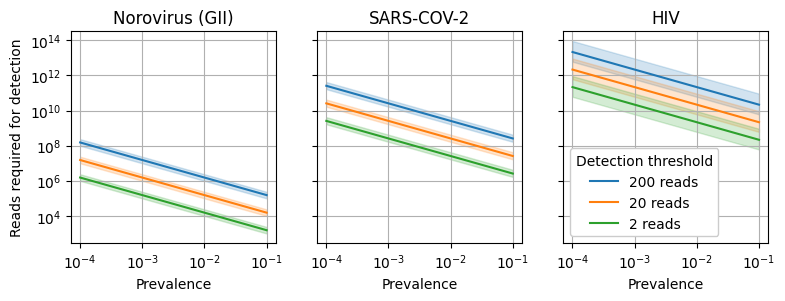
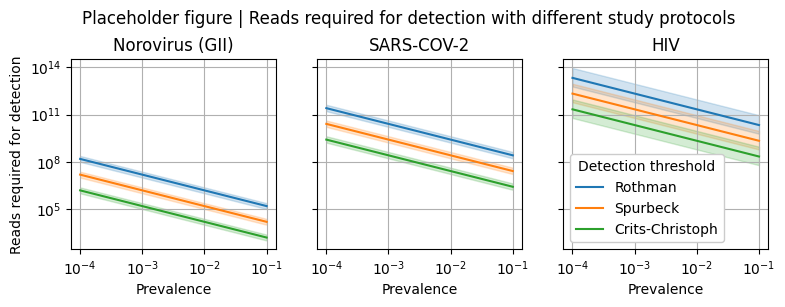
Created a placeholder figure, showing reads required for detection for different studies.

diff --git a/plot_reads_per_prevalence.py b/plot_reads_per_prevalence.py
@@ -51,6 +51,11 @@ def start():
         lower = stats.percentiles[25]
         upper = stats.percentiles[75]
         incidence = np.logspace(-4, -1, 100)
+        placeholder_dict = {
+            200: "Rothman",
+            20: "Spurbeck",
+            2: "Crits-Christoph",
+        }
         for i, detection_threshold in enumerate([200, 20, 2]):
             # 0.01 = conversion from per 1% to true incidence
             scale_factor = detection_threshold * 0.01 / incidence
@@ -59,7 +64,7 @@ def start():
                 incidence,
                 scale_factor / median,
                 color=color,
-                label=f"{detection_threshold} reads",
+                label=f"{placeholder_dict[detection_threshold]}",
             )
             ax.fill_between(
                 incidence,
@@ -72,10 +77,17 @@ def start():
         ax.set_xlabel("Prevalence")
         ax.grid()
         ax.set_xticks([1e-4, 1e-3, 1e-2, 1e-1])
+    # set overall figure title
+    # move title up
+    fig.subplots_adjust(top=0.8)
+    fig.suptitle(
+        "Placeholder figure | Reads required for detection with different study protocols"
+    )
     axes[0].set_ylabel("Reads required for detection")
     axes[-1].legend(
         title="Detection threshold", frameon=True, facecolor="w", framealpha=1
     )
+
     fig.savefig("reads_per_prevalence.png", bbox_inches="tight")
 
 
